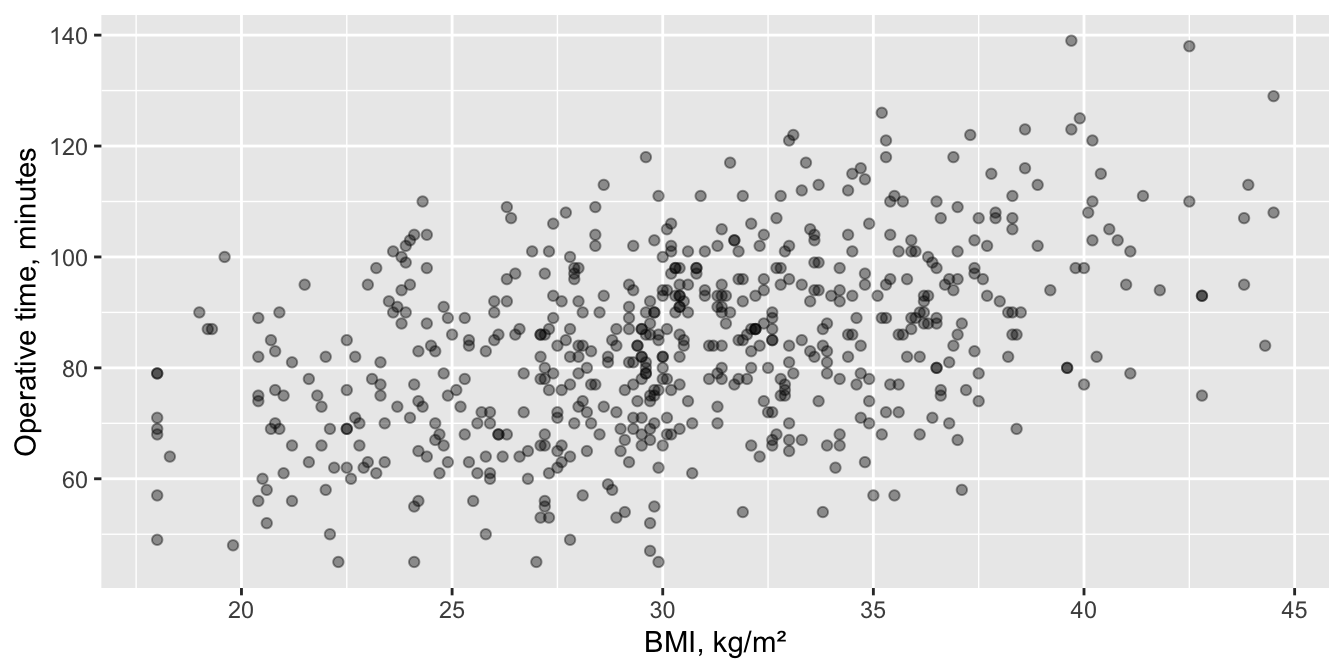
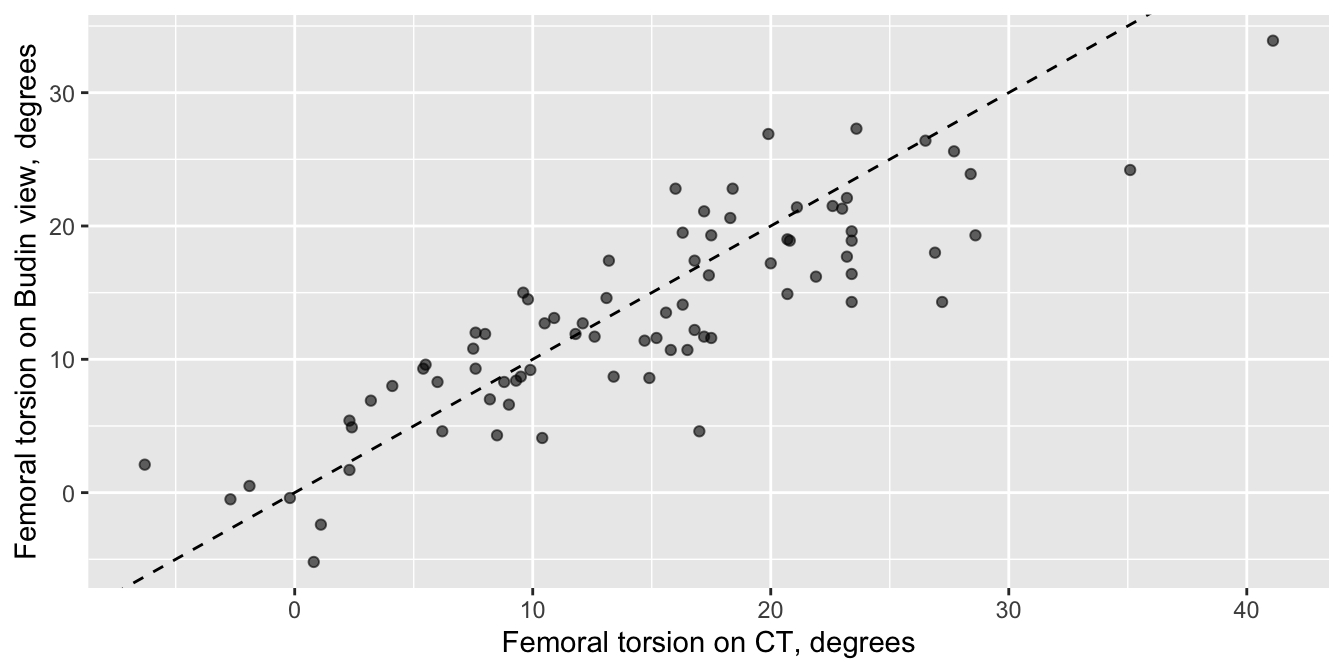
Page 10: Pearson's r compares femoral torsion on CT and on the Budin view, and warns that correlation isn't agreement; exercise 1 on the alpha angle

diff --git a/tests/site/test_catalog.py b/tests/site/test_catalog.py
@@ -110,6 +110,7 @@ MOVED_SECTIONS = {
     ("catalog/08-three-plus-unmatched.html", "chi-square"): ("data/acl_cohort.csv", "rts_12mo"),
     ("catalog/09-three-plus-matched.html", "repeated-measures-anova"): ("data/proms_long.csv", "promis_pf"),
     ("catalog/09-three-plus-matched.html", "friedman"): ("data/foot_ankle_rct_long.csv", "efas"),
+    ("catalog/10-association.html", "pearson"): ("data/hip_preservation_imaging.csv", "torsion_budin_deg"),
 }
 
 
@@ -119,6 +120,11 @@ def test_moved_sections_teach_from_their_new_data(site, cell, source):
     code = code_of(section(*cell))
     assert code.count(f'read_csv("{dataset}"') >= 2, f"{cell}: R and Python should both read {dataset}"
     assert column in code, f"{cell}: the code never uses {column}"
+
+
+def test_pearson_warning_says_correlation_is_not_agreement(site):
+    warning = text_of(section("catalog/10-association.html", "pearson").select_one("div.callout-warning"))
+    assert "isn't agreement" in warning and "−10.2° and 7.8°" in warning
 
 
 def test_friedman_says_how_many_boot_patients_were_analyzed(site):

diff --git a/tests/site/test_beyond.py b/tests/site/test_beyond.py
@@ -129,6 +129,7 @@ SECTION_LINKS = {
     "catalog/09-three-plus-matched.html": ["beyond/15-post-hoc.html#after-repeated-measures-anova",
                                            "beyond/15-post-hoc.html#after-friedman", "beyond/15-post-hoc.html#after-cochran-q",
                                            "beyond/16-mixed-models.html#why-mixed-models"],
+    "catalog/10-association.html": ["beyond/17-agreement.html#bland-altman"],
     "catalog/11-predict-from-one.html": ["beyond/16-mixed-models.html#random-intercept"],
     "catalog/12-predict-from-several.html": ["beyond/16-mixed-models.html#random-intercept"],
     "survival/13-kaplan-meier.html": ["beyond/15-post-hoc.html#after-log-rank"],
